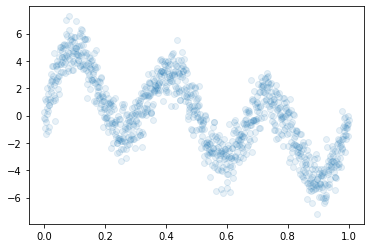
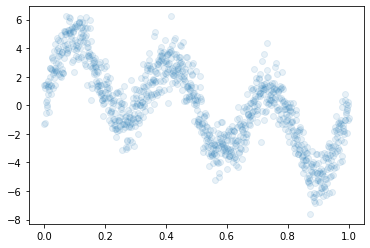
Built site for gh-pages

diff --git a/posts/5_study/2023-06-24-파라메트릭.html b/posts/5_study/2023-06-24-파라메트릭.html
@@ -184,9 +184,13 @@ ul.task-list li input[type="checkbox"] {
   <li><a href="#가법모델additive-models" id="toc-가법모델additive-models" class="nav-link" data-scroll-target="#가법모델additive-models">가법모델(additive models)</a></li>
   </ul></li>
   <li><a href="#커널모델" id="toc-커널모델" class="nav-link" data-scroll-target="#커널모델">2.2 커널모델</a></li>
-  <li><a href="#semi-parametric" id="toc-semi-parametric" class="nav-link" data-scroll-target="#semi-parametric">semi-parametric</a></li>
-  <li><a href="#nonparametric" id="toc-nonparametric" class="nav-link" data-scroll-target="#nonparametric">nonparametric</a></li>
   <li><a href="#parametric" id="toc-parametric" class="nav-link" data-scroll-target="#parametric">parametric</a></li>
+  <li><a href="#nonparametric" id="toc-nonparametric" class="nav-link" data-scroll-target="#nonparametric">nonparametric</a></li>
+  <li><a href="#semi-parametric" id="toc-semi-parametric" class="nav-link" data-scroll-target="#semi-parametric">semi-parametric</a>
+  <ul class="collapse">
+  <li><a href="#semiparametric-regression" id="toc-semiparametric-regression" class="nav-link" data-scroll-target="#semiparametric-regression">semiparametric regression</a></li>
+  <li><a href="#difference-between-a-parametric-and-non-parametric-model" id="toc-difference-between-a-parametric-and-non-parametric-model" class="nav-link" data-scroll-target="#difference-between-a-parametric-and-non-parametric-model">difference between a parametric and non-parametric model?</a></li>
+  </ul></li>
   </ul>
 </nav>
     </div>
@@ -250,21 +254,6 @@ ul.task-list li input[type="checkbox"] {
 <p>커널모델 식 (2.2)의 경우, 입력 <span class="math inline">\(x\)</span>는 커널 함수 <span class="math inline">\(K(x,x')\)</span>에서 <span class="math inline">\(x\)</span>와 <span class="math inline">\(x'\)</span> 사이에만 존재하므로 두 개의 입력 <span class="math inline">\(x\)</span>와 <span class="math inline">\(x'\)</span>에 대한 커널 함수만 정의되어 있다면, 입력 <span class="math inline">\(\bf x\)</span>는 어떤 값을 취해도 상관없다. 예를 들면, 입력 <span class="math inline">\(\bf x\)</span>가 문자열, 트리, 그래프 등인 경우에대한 커널 함수가 제안된 바가 있다.</p>
 <p>이렇듯 커널함수를 사용한 머신러닝 알고리즘은 <strong>커널법</strong> 이라 불리며 활발히 연구되고 있다.</p>
 </section>
-<section id="semi-parametric" class="level2">
-<h2 class="anchored" data-anchor-id="semi-parametric">semi-parametric</h2>
-<ul>
-<li>ref: <a href="https://en.wikipedia.org/wiki/Semiparametric_regression" class="uri">https://en.wikipedia.org/wiki/Semiparametric_regression</a></li>
-</ul>
-<p><img src="2023-06-24-파라메트릭_files/figure-html/ef29d1af-9fce-434c-8248-f61535e04802-1-3b0ee137-a467-4ae8-83f8-50bf690989bb.png" class="img-fluid"></p>
-</section>
-<section id="nonparametric" class="level2">
-<h2 class="anchored" data-anchor-id="nonparametric">nonparametric</h2>
-<ul>
-<li>ref: <a href="https://en.wikipedia.org/wiki/Nonparametric_statistics" class="uri">https://en.wikipedia.org/wiki/Nonparametric_statistics</a></li>
-<li>ref: <a href="https://en.wikipedia.org/wiki/Nonparametric_regression" class="uri">https://en.wikipedia.org/wiki/Nonparametric_regression</a></li>
-</ul>
-<p><img src="2023-06-24-파라메트릭_files/figure-html/37391e2e-e8ea-4432-b1d7-5134d51bbb3d-1-cfe67443-03fc-4d8f-93ec-20ebaabe87df.png" class="img-fluid"></p>
-</section>
 <section id="parametric" class="level2">
 <h2 class="anchored" data-anchor-id="parametric">parametric</h2>
 <ul>
@@ -276,8 +265,41 @@ ul.task-list li input[type="checkbox"] {
 <p></p><figcaption class="figure-caption">ref: 위키</figcaption><p></p>
 </figure>
 </div>
+</section>
+<section id="nonparametric" class="level2">
+<h2 class="anchored" data-anchor-id="nonparametric">nonparametric</h2>
+<ul>
+<li>ref: <a href="https://en.wikipedia.org/wiki/Nonparametric_statistics" class="uri">https://en.wikipedia.org/wiki/Nonparametric_statistics</a></li>
+<li>ref: <a href="https://en.wikipedia.org/wiki/Nonparametric_regression" class="uri">https://en.wikipedia.org/wiki/Nonparametric_regression</a></li>
+</ul>
+<p><img src="2023-06-24-파라메트릭_files/figure-html/37391e2e-e8ea-4432-b1d7-5134d51bbb3d-1-cfe67443-03fc-4d8f-93ec-20ebaabe87df.png" class="img-fluid"></p>
+</section>
+<section id="semi-parametric" class="level2">
+<h2 class="anchored" data-anchor-id="semi-parametric">semi-parametric</h2>
+<ul>
+<li>ref: <a href="https://en.wikipedia.org/wiki/Semiparametric_regression" class="uri">https://en.wikipedia.org/wiki/Semiparametric_regression</a></li>
+</ul>
+<p><img src="2023-06-24-파라메트릭_files/figure-html/ef29d1af-9fce-434c-8248-f61535e04802-1-3b0ee137-a467-4ae8-83f8-50bf690989bb.png" class="img-fluid"></p>
+<section id="semiparametric-regression" class="level3">
+<h3 class="anchored" data-anchor-id="semiparametric-regression">semiparametric regression</h3>
+<p>In statistics, semiparametric regression includes regression models that combine parametric and nonparametric models. They are often used in situations where the fully nonparametric model may not perform well or when the researcher wants to use a parametric model but the functional form with respect to a subset of the regressors or the density of the errors is not known. Semiparametric regression models are a particular type of semiparametric modelling and, since semiparametric models contain a parametric component, they rely on parametric assumptions and may be misspecified and inconsistent, just like a fully parametric model.</p>
+<p><code>-</code> Partially linear models</p>
+<p><span class="math inline">\(Y_i = X'_i \beta + g(Z_i) + u_i, \quad i=1,\dots,n\)</span></p>
+<ul>
+<li><span class="math inline">\(Y_i\)</span> : 종속 변수</li>
+<li><span class="math inline">\(X_i\)</span> : <span class="math inline">\(p\times 1\)</span> vector of explanatory variables.</li>
+<li><span class="math inline">\(\beta\)</span> ; <span class="math inline">\(p\times 1\)</span> vector of unknown parameters <span class="math inline">\(Z_i \in R^q\)</span></li>
+</ul>
+</section>
+<section id="difference-between-a-parametric-and-non-parametric-model" class="level3">
+<h3 class="anchored" data-anchor-id="difference-between-a-parametric-and-non-parametric-model">difference between a parametric and non-parametric model?</h3>
+<p>In a parametric model, the number of parameters is fixed with respect to the sample size. In a nonparametric model, the (effective) number of parameters can grow with the sample size.</p>
+<p>In an OLS regression, the number of parameters will always be the length of β , plus one for the variance.</p>
+<p>A neural net with fixed architecture and no weight decay would be a parametric model.</p>
+<p>But if you have weight decay, then the value of the decay parameter selected by cross-validation will generally get smaller with more data. This can be interpreted as an increase in the effective number of parameters with increasing sample size.</p>
 
 
+</section>
 </section>
 
 </main> <!-- /main -->

diff --git a/posts/5_study/2023-06-23-퓨리에변환4jy.html b/posts/5_study/2023-06-23-퓨리에변환4jy.html
@@ -124,6 +124,7 @@ code span.wa { color: #60a0b0; font-weight: bold; font-style: italic; } /* Warni
   }
 }</script>
 
+  <script src="https://cdn.jsdelivr.net/npm/mathjax@3/es5/tex-chtml-full.js" type="text/javascript"></script>
 
 <link rel="stylesheet" href="../../styles.css">
 </head>
@@ -279,8 +280,12 @@ code span.wa { color: #60a0b0; font-weight: bold; font-style: italic; } /* Warni
 </section>
 <section id="회귀모형-2" class="level1">
 <h1>회귀모형 (2)</h1>
+<p><span class="math display">\[f_i = 2\times \sin(2\pi t_i) + 1 \times \sin(4\pi t_i) + 3\times\sin(6\pi t_i)+\epsilon_i, \quad t_i = \frac{i}{1000}\]</span></p>
+<p>회귀분석 느낌의 표현은 아래와 같다.</p>
+<p><span class="math display">\[y_i = \beta_0 + \beta_1 x_{i1} + \beta_2x_{i2} + \beta_3x_{i3} + \epsilon_i\]</span></p>
+<p>여기서 <span class="math inline">\(x_{i1} = \sin{2\pi t_i}\)</span> 이고, <span class="math inline">\(x_{i2} = \sin(4\pi t_i), \quad x_{i3} = \sin(6\pi t_i)\)</span>.</p>
 <p><code>-</code> 관측한자료</p>
-<div class="cell" data-execution_count="18">
+<div class="cell" data-execution_count="147">
 <div class="sourceCode cell-code" id="cb4"><pre class="sourceCode numberSource python number-lines code-with-copy"><code class="sourceCode python"><span id="cb4-1"><a href="#cb4-1"></a>N<span class="op">=</span><span class="dv">1000</span></span>
 <span id="cb4-2"><a href="#cb4-2"></a>x<span class="op">=</span>np.linspace(<span class="dv">0</span>,<span class="dv">1</span>,N)</span>
 <span id="cb4-3"><a href="#cb4-3"></a>eps <span class="op">=</span> np.random.randn(N)</span>
@@ -289,10 +294,12 @@ code span.wa { color: #60a0b0; font-weight: bold; font-style: italic; } /* Warni
 <span id="cb4-6"><a href="#cb4-6"></a>X2 <span class="op">=</span> np.sin(x<span class="op">*</span><span class="dv">4</span><span class="op">*</span>np.pi)</span>
 <span id="cb4-7"><a href="#cb4-7"></a>X3 <span class="op">=</span> np.sin(x<span class="op">*</span><span class="dv">6</span><span class="op">*</span>np.pi)</span>
 <span id="cb4-8"><a href="#cb4-8"></a></span>
-<span id="cb4-9"><a href="#cb4-9"></a>y<span class="op">=</span><span class="dv">2</span><span class="op">*</span>X1<span class="op">+</span><span class="dv">1</span><span class="op">*</span>X2<span class="op">+</span><span class="dv">3</span><span class="op">*</span>X3<span class="op">+</span>eps</span></code><button title="Copy to Clipboard" class="code-copy-button"><i class="bi"></i></button></pre></div>
+<span id="cb4-9"><a href="#cb4-9"></a>y_true <span class="op">=</span> <span class="dv">2</span><span class="op">*</span>X1<span class="op">+</span><span class="dv">1</span><span class="op">*</span>X2<span class="op">+</span><span class="dv">3</span><span class="op">*</span>X3</span>
+<span id="cb4-10"><a href="#cb4-10"></a>y<span class="op">=</span> y_true <span class="op">+</span> eps</span></code><button title="Copy to Clipboard" class="code-copy-button"><i class="bi"></i></button></pre></div>
 </div>
-<div class="cell" data-execution_count="19">
-<div class="sourceCode cell-code" id="cb5"><pre class="sourceCode numberSource python number-lines code-with-copy"><code class="sourceCode python"><span id="cb5-1"><a href="#cb5-1"></a>plt.plot(x,y,<span class="st">'o'</span>,alpha<span class="op">=</span><span class="fl">0.1</span>)</span></code><button title="Copy to Clipboard" class="code-copy-button"><i class="bi"></i></button></pre></div>
+<div class="cell" data-execution_count="144">
+<div class="sourceCode cell-code" id="cb5"><pre class="sourceCode numberSource python number-lines code-with-copy"><code class="sourceCode python"><span id="cb5-1"><a href="#cb5-1"></a>plt.plot(x,y,<span class="st">'o'</span>,alpha<span class="op">=</span><span class="fl">0.1</span>)</span>
+<span id="cb5-2"><a href="#cb5-2"></a><span class="co"># plt.plot(x,y_true)</span></span></code><button title="Copy to Clipboard" class="code-copy-button"><i class="bi"></i></button></pre></div>
 <div class="cell-output cell-output-display">
 <p><img src="2023-06-23-퓨리에변환4jy_files/figure-html/cell-6-output-1.png" class="img-fluid"></p>
 </div>
@@ -572,6 +579,12 @@ code span.wa { color: #60a0b0; font-weight: bold; font-style: italic; } /* Warni
 </div>
 <ul>
 <li>주파수 왜곡떄문에 실제로는 corr ceof = 0 일지라도 관측되는건 corr coef &gt;0 일 수 있음</li>
+</ul>
+<hr>
+<ul>
+<li>에일리어싱: <a href="https://moonnote.tistory.com/133" class="uri">https://moonnote.tistory.com/133</a></li>
+<li>나이퀴스트 이론: <a href="https://ralasun.github.io/signal%20analysis/2021/07/01/nyq/" class="uri">https://ralasun.github.io/signal%20analysis/2021/07/01/nyq/</a></li>
+<li>kernel : <a href="https://sonsnotation.blogspot.com/2020/11/11-1-kernel.html" class="uri">https://sonsnotation.blogspot.com/2020/11/11-1-kernel.html</a></li>
 </ul>
 
 

diff --git a/index.html b/index.html
@@ -275,9 +275,9 @@ youtube: https://youtube.com/playlist?list=PLQqh36zP38-xOfpHJG0LrtYt4TUVgqUNy
 <a href="./posts/3_STBDA2022/2022_05_23_(12주차)_5월23일.html"> </a>
 </div>
 </div>
-<div class="quarto-post image-right" data-index="3" data-listing-date-sort="1687532400000" data-listing-file-modified-sort="1687796684215" data-listing-reading-time-sort="2.89">
+<div class="quarto-post image-right" data-index="3" data-listing-date-sort="1687532400000" data-listing-file-modified-sort="1687840134879" data-listing-reading-time-sort="4.085">
 <div class="thumbnail">
-<p><a href="./posts/5_study/2023-06-24-파라메트릭.html"> <img src="./posts/5_study/attachment:3b0ee137-a467-4ae8-83f8-50bf690989bb.png" class="thumnail-image"> </a></p>
+<p><a href="./posts/5_study/2023-06-24-파라메트릭.html"> <img src="./posts/5_study/attachment:c58e05ab-fc9d-4938-8c92-99de72352f61.png" class="thumnail-image"> </a></p>
 </div>
 <div class="body">
 <a href="./posts/5_study/2023-06-24-파라메트릭.html">
@@ -303,7 +303,7 @@ JiyunLim
 </a>
 </div>
 </div>
-<div class="quarto-post image-right" data-index="4" data-listing-date-sort="1687446000000" data-listing-file-modified-sort="1687767770271" data-listing-reading-time-sort="0.565">
+<div class="quarto-post image-right" data-index="4" data-listing-date-sort="1687446000000" data-listing-file-modified-sort="1687828120788" data-listing-reading-time-sort="0.83">
 <div class="thumbnail">
 <a href="./posts/5_study/2023-06-23-퓨리에변환4jy.html">
 <div class="thumbnail-image">
@@ -320,7 +320,7 @@ JiyunLim
 
 </div>
 <div class="listing-description">
-<code>-</code> 관측한자료
+<span class="math display">\[f_i = 2\times \sin(2\pi t_i) + 1 \times \sin(4\pi t_i) + 3\times\sin(6\pi t_i)+\epsilon_i, \quad t_i = \frac{i}{1000}\]</span>
 </div>
 </a>
 </div>
@@ -335,7 +335,7 @@ Jun 23, 2023
 </a>
 </div>
 </div>
-<div class="quarto-post image-right" data-index="5" data-categories="푸리에변환" data-listing-date-sort="1687359600000" data-listing-file-modified-sort="1687773740947" data-listing-reading-time-sort="3.985">
+<div class="quarto-post image-right" data-index="5" data-categories="푸리에변환" data-listing-date-sort="1687359600000" data-listing-file-modified-sort="1687839531192" data-listing-reading-time-sort="4.21">
 <div class="thumbnail">
 <p><a href="./posts/5_study/2023-06-22-퓨리에변환공부.html"> <img src="./posts/5_study/attachment:24096a54-0994-41cd-8655-44f2013b5ab2.png" class="thumnail-image"> </a></p>
 </div>

diff --git a/posts/5_study/2023-06-22-퓨리에변환공부.html b/posts/5_study/2023-06-22-퓨리에변환공부.html
@@ -248,6 +248,7 @@ code span.wa { color: #60a0b0; font-weight: bold; font-style: italic; } /* Warni
   <li><a href="#chap6.-푸리에-변환의-이해를-위한-준비" id="toc-chap6.-푸리에-변환의-이해를-위한-준비" class="nav-link" data-scroll-target="#chap6.-푸리에-변환의-이해를-위한-준비">Chap6. 푸리에 변환의 이해를 위한 준비</a></li>
   <li><a href="#chap-7.-푸리에-해석" id="toc-chap-7.-푸리에-해석" class="nav-link" data-scroll-target="#chap-7.-푸리에-해석">Chap 7. 푸리에 해석</a></li>
   <li><a href="#to-read" id="toc-to-read" class="nav-link" data-scroll-target="#to-read">To read</a></li>
+  <li><a href="#푸리에-급수와-주파수-분석에서의-활용" id="toc-푸리에-급수와-주파수-분석에서의-활용" class="nav-link" data-scroll-target="#푸리에-급수와-주파수-분석에서의-활용">푸리에 급수와 주파수 분석에서의 활용</a></li>
   </ul>
 </nav>
     </div>
@@ -445,6 +446,15 @@ code span.wa { color: #60a0b0; font-weight: bold; font-style: italic; } /* Warni
 <li>나이퀴스트 이론: <a href="https://ralasun.github.io/signal%20analysis/2021/07/01/nyq/" class="uri">https://ralasun.github.io/signal%20analysis/2021/07/01/nyq/</a></li>
 <li>kernel : <a href="https://sonsnotation.blogspot.com/2020/11/11-1-kernel.html" class="uri">https://sonsnotation.blogspot.com/2020/11/11-1-kernel.html</a></li>
 </ul>
+<hr>
+</section>
+<section id="푸리에-급수와-주파수-분석에서의-활용" class="level3">
+<h3 class="anchored" data-anchor-id="푸리에-급수와-주파수-분석에서의-활용">푸리에 급수와 주파수 분석에서의 활용</h3>
+<p>Fourier series는 다음 두 식으로 구성된다.</p>
+<p><code>(1)</code> <span class="math inline">\(x(t) = \sum_{k=-\infty}^\infty a_k \exp(j\frac{2\pi k}{T}t)\)</span></p>
+<p><code>(2)</code> <span class="math inline">\(a_k = \frac{1}{T}\int_{0}^T x(t) \exp(-j\frac{2\pi k}{T}t)dt\)</span></p>
+<p>1번식: 연속신호(함수)는 무한차원의 벡터이고, 이것은 기저벡터의 선형결합으로 재구성할 수 있음.</p>
+<p>2번식: 위 신호를 구성하는 각 기저벡터는 얼마만큼의 기여도를 갖고 있는지? <span class="math inline">\(\to\)</span> 주파수 분석에 활용 가능</p>
 
 
 </section>

diff --git a/5_study.html b/5_study.html
@@ -218,7 +218,7 @@ Author
 </tr>
 </thead>
 <tbody class="list">
-<tr data-index="0" data-listing-date-sort="1687532400000" data-listing-file-modified-sort="1687796684215" data-listing-reading-time-sort="2.89" data-listing-title-sort="semi/non/parametric models" data-listing-filename-sort="2023-06-24-파라메트릭.ipynb">
+<tr data-index="0" data-listing-date-sort="1687532400000" data-listing-file-modified-sort="1687840134879" data-listing-reading-time-sort="4.085" data-listing-title-sort="semi/non/parametric models" data-listing-filename-sort="2023-06-24-파라메트릭.ipynb">
 <td class="listing-date">
 Jun 24, 2023
 </td>
@@ -229,7 +229,7 @@ Jun 24, 2023
 JiyunLim
 </td>
 </tr>
-<tr data-index="1" data-listing-date-sort="1687446000000" data-listing-file-modified-sort="1687767770271" data-listing-reading-time-sort="0.565" data-listing-title-sort="**[Essays]** 퓨리에변환4jy" data-listing-filename-sort="2023-06-23-퓨리에변환4jy.ipynb">
+<tr data-index="1" data-listing-date-sort="1687446000000" data-listing-file-modified-sort="1687828120788" data-listing-reading-time-sort="0.83" data-listing-title-sort="**[Essays]** 퓨리에변환4jy" data-listing-filename-sort="2023-06-23-퓨리에변환4jy.ipynb">
 <td class="listing-date">
 Jun 23, 2023
 </td>
@@ -240,7 +240,7 @@ Jun 23, 2023
 신록예찬
 </td>
 </tr>
-<tr data-index="2" data-categories="푸리에변환" data-listing-date-sort="1687359600000" data-listing-file-modified-sort="1687773740947" data-listing-reading-time-sort="3.985" data-listing-title-sort="푸리에변환" data-listing-filename-sort="2023-06-22-퓨리에변환공부.ipynb">
+<tr data-index="2" data-categories="푸리에변환" data-listing-date-sort="1687359600000" data-listing-file-modified-sort="1687839531192" data-listing-reading-time-sort="4.21" data-listing-title-sort="푸리에변환" data-listing-filename-sort="2023-06-22-퓨리에변환공부.ipynb">
 <td class="listing-date">
 Jun 22, 2023
 </td>

diff --git a/posts/2_DV2022/9999.html b/posts/2_DV2022/9999.html
@@ -7,7 +7,7 @@
 <meta name="viewport" content="width=device-width, initial-scale=1.0, user-scalable=yes">
 
 
-<title>Quarto-Blog – quarto-input3ae45a93</title>
+<title>Quarto-Blog – quarto-input207cdbd8</title>
 <style>
 code{white-space: pre-wrap;}
 span.smallcaps{font-variant: small-caps;}

diff --git a/posts/3_STBDA2022/2022_05_23_(12주차)_5월23일.html b/posts/3_STBDA2022/2022_05_23_(12주차)_5월23일.html
@@ -7,7 +7,7 @@
 <meta name="viewport" content="width=device-width, initial-scale=1.0, user-scalable=yes">
 
 
-<title>Quarto-Blog – quarto-input9dcbf67b</title>
+<title>Quarto-Blog – quarto-input5cf99073</title>
 <style>
 code{white-space: pre-wrap;}
 span.smallcaps{font-variant: small-caps;}
